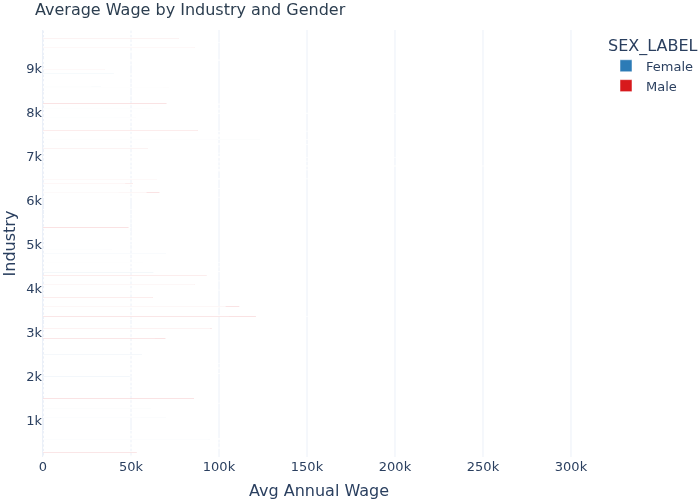
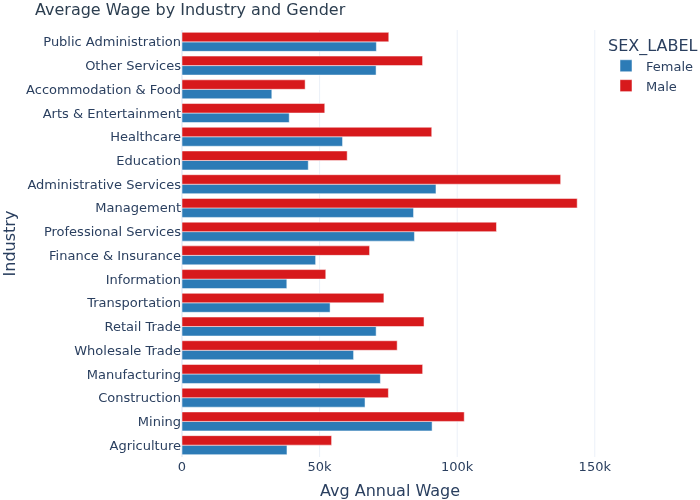
fix: map IND codes to readable industry labels in A1 chart

diff --git a/analysis/utils.py b/analysis/utils.py
@@ -36,11 +36,29 @@ def _base_load(filepath: Path) -> pd.DataFrame:
         df = df.drop_duplicates(subset=["ID"])
     return df
 
+
+# ── 5a. map_ind_to_industry() — Julie ─────────────────
+def map_ind_to_industry(ind_series: pd.Series) -> pd.Series:
+    bins = [0, 290, 490, 770, 3990, 4090, 4590, 4690,
+            5790, 6390, 6470, 6780, 7190, 7580, 7790, 8470,
+            8590, 9290, 9590, 9870, 9999]
+    labels = [
+        "Agriculture", "Mining", "Construction", "Manufacturing",
+        "Wholesale Trade", "Retail Trade", "Transportation", "Information",
+        "Finance & Insurance", "Real Estate", "Professional Services", "Management",
+        "Administrative Services", "Education", "Healthcare",
+        "Arts & Entertainment", "Accommodation & Food", "Other Services",
+        "Public Administration", "Military"
+    ]
+    return pd.cut(ind_series, bins=bins, labels=labels, right=True)
+
 # ── 5. load_employment() — Julie ────────────────
 def load_employment() -> pd.DataFrame:
     df = _base_load(PROCESSED / "employed_only.parquet")
     df = df[df["INCWAGE"] > 0]          # drop zero wages
     df = df.dropna(subset=["SEX_LABEL", "STATE_NAME"])
+    df["INDUSTRY"] = map_ind_to_industry(df["IND"])
+    df = df.dropna(subset=["INDUSTRY"])
     return df
 
 # ── 6. load_job_postings() — Julie ──────────────